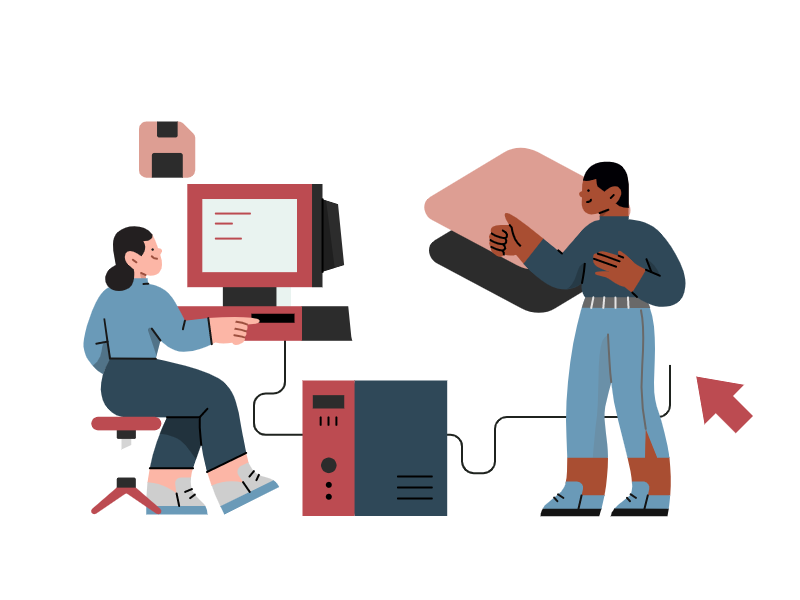
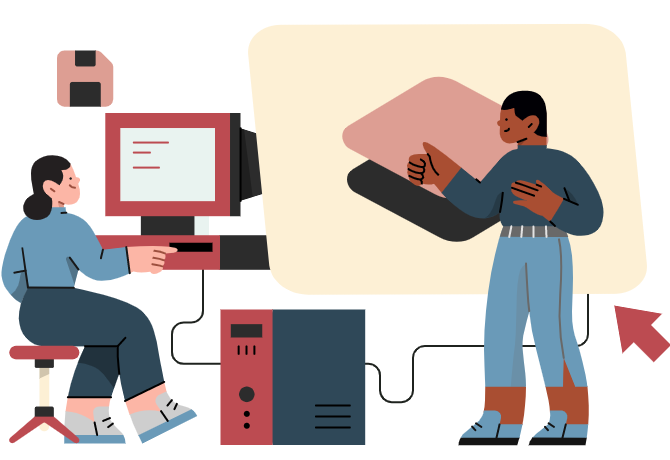
About us finished

diff --git a/src/components/footer/AboutUs.tsx b/src/components/footer/AboutUs.tsx
@@ -1,12 +1,19 @@
 const AboutUs = () => {
     return (
-        <div className="flex flex-col items-center">
-            <div className="md:w-6/12 bg-palette-80  text-palette-60 border-4 border-palette-50 rounded-2xl m-10 flex flex-col items-center">
-                <h1 className="text-center bg-palette-50 md:w-9/12 mt-10 p-6 border-4 border-palette-60 rounded-xl text-palette-60">
+        <div className="md:grid grid-cols-6 ">
+            
+            <img src="../../../images/aboutUs2.png" alt="image" className="hidden md:block md:col-start-1 md:col-end-3 md:row-start-1 mt-36 ml- z-10" />
+            <img src="../../../images/aboutUs3.png" alt="image" className=" hidden md:block md:col-start-5 md:col-end-7 md:row-start-2 z-10 md:ml-8" />
+            <img src="../../../images/aboutUs1.png" alt="image" className="hidden md:block md:col-start-1 md:col-end-3 md:row-start-3 z-10" />
+            <img src="../../../images/aboutUs4.png" alt="image" className="hidden md:block md:col-start-5 md:col-end-7 md:row-start-3 md:mt-80 z-10" />
+            <div className="col-start-2 col-span-4 row-start-1 row-end-4  bg-palette-80  text-palette-60 border-4 border-palette-50 rounded-2xl m-10 flex flex-col items-center">
+                <h1 className=" text-center bg-palette-50  mt-10 p-6 border-4 border-palette-60 rounded-xl text-palette-60">
                     Über uns und unserer Webseite
                 </h1>
-                <div className="flex flex-col items-center mt-10">
-                    <p className="bg-palette-50 md:w-9/12 p-6 border-4 border-palette-60 rounded-xl text-palette-60">
+                
+                <div className="md:grid grid-col-6">
+        
+                    <div className="col-start-2 col-end-6 m-10 bg-palette-50  p-6 border-4 border-palette-60 rounded-xl text-palette-60">
                         Wir sind ein Team von vier sehr schlauen Köpfen, die
                         sich in der Ausbildung bei DCI Digital Career Institute
                         gefunden haben und im Rahmen des „Final-Projects“ dieses
@@ -22,9 +29,9 @@ const AboutUs = () => {
                         Unterstützung konnten wir in einer lustigen Umgebung
                         gemeinsam dieses sehr nützliche Werkzeug zum lernen für
                         die DTZ-Prüfung entwickeln.
-                    </p>
+                    </div>
 
-                    <p className="bg-palette-50 md:w-9/12 mt-10 p-6 border-4 border-palette-60 rounded-xl text-palette-60">
+                    <div className="col-start-1 col-end-5 m-10 bg-palette-50  mt-10 p-6 border-4 border-palette-60 rounded-xl text-palette-60">
                         Die Idee dieser Seite ist es Zuwanderern in Deutschland
                         bei ihrem DTZ (Deutschtest für Zuwanderer) zu helfen.
                         Jeder Zuwanderer in Deutschland muss einen so genannten
@@ -47,15 +54,17 @@ const AboutUs = () => {
                         schreiben, Formulare auszufüllen, zu telefonieren und
                         sich auf Stellen zu bewerben. Die Themen sind
                         unterschiedlich, je nachdem, welche Art von Kurs Sie
-                        besuchen. Wenn die Zuwanderer z. B. einen Jugendintegrationskurs
-                        besuchen, werden Sie sich mit Themen beschäftigen, die
-                        für junge Menschen besonders interessant sind, wie z. B.
-                        die Bewerbung um einen Ausbildungsplatz. <br /><br />Den Abschluss
-                        des Sprachkurses bildet der "Deutsche Sprachtest für
-                        Zuwanderer" (DTZ). Im Anschluss an den Sprachkurs
-                        besuchen die Zuwanderer den Orientierungskurs. Er
-                        umfasst 100 Unterrichtsstunden. Hier
-                        werden behandelt man unter anderem folgende Themen 
+                        besuchen. Wenn die Zuwanderer z. B. einen
+                        Jugendintegrationskurs besuchen, werden Sie sich mit
+                        Themen beschäftigen, die für junge Menschen besonders
+                        interessant sind, wie z. B. die Bewerbung um einen
+                        Ausbildungsplatz. <br />
+                        <br />
+                        Den Abschluss des Sprachkurses bildet der "Deutsche
+                        Sprachtest für Zuwanderer" (DTZ). Im Anschluss an den
+                        Sprachkurs besuchen die Zuwanderer den
+                        Orientierungskurs. Er umfasst 100 Unterrichtsstunden.
+                        Hier werden behandelt man unter anderem folgende Themen
                         <ul className="list-disc m-6">
                             <li>das deutsche Rechtssystem,</li>
                             <li>Geschichte und Kultur,</li>
@@ -67,36 +76,86 @@ const AboutUs = () => {
                                 Gleichberechtigung.
                             </li>
                         </ul>
-                        Der Orientierungskurs wird mit dem Test "Leben
-                        in Deutschland", der auch relevant für die Einbürgerung
-                        ist, abgeschlossen. Unsere Website wird den Zuwanderern helfen, sich
-                        auf diesen Test vorzubereiten und die besten Ergebnisse
-                        zu erzielen.
-                    </p>
+                        Der Orientierungskurs wird mit dem Test "Leben in
+                        Deutschland", der auch relevant für die Einbürgerung
+                        ist, abgeschlossen. Unsere Website wird den Zuwanderern
+                        helfen, sich auf diesen Test vorzubereiten und die
+                        besten Ergebnisse zu erzielen.
+                    </div>
                 </div>
-<div className="border-4 border-palette-60 bg-palette-50 rounded-xl md:w-9/12 my-10 flex flex-col items-center">
-    <p className="mt-6">Das sind wir</p>
-                <div className="bg-palette-80 w-10/12 md:w-9/12 mt-10 p-6 border-4 border-palette-60 rounded-xl text-palette-60">
-                    <img src="" alt="" />
-                    <div className="border-b-2 border-palette-60 mb-4">Zubia Rashid</div>
-                    <div className="">HTML, CSS, SASS, Tailwind, Javascript, react JS, Node JS, Express JS, MongoDB, Typescript</div>
+                <div className="border-4 border-palette-60 bg-palette-50 rounded-xl md:w-9/12 my-10 flex flex-col items-center m-10">
+                    <p className="mt-6">Das sind wir</p> {/* zubia */}
+                    <div className="bg-palette-80 w-10/12 md:w-9/12 mZ-10 p-6 border-4 border-palette-60 rounded-xl text-palette-60 grid grid-cols-3 items-center">
+
+                       
+                        <img
+                            src="../../../public/images/imgZubi.png"
+                            alt="image"
+                            className="w-10/12"
+                        />
+                        <div className="col-span-2">
+                            {" "}
+                            <div className="border-b-2 border-palette-60 mb-4">
+                                Zubia Rashid
+                            </div>
+                            <div className="">
+                                HTML, CSS, SASS, Tailwind, Javascript, React JS,
+                                Node JS, Express JS, MongoDB, Typescript
+                            </div>
+                        </div>
+                    </div>
+                    <div className="bg-palette-80 w-10/12 md:w-9/12 mt-10 p-6 border-4 border-palette-60 rounded-xl text-palette-60 grid grid-cols-3 items-center">
+                        <img
+                            src="../../../public/images/"
+                            alt="image"
+                            className="w-10/12"
+                        />
+                        <div className="col-span-2">
+                            {" "}
+                            <div className="border-b-2 border-palette-60 mb-4">
+                 Sali Taymour
+                            </div>
+                            <div className="">
+                                HTML, CSS, Javascript, React JS,
+                                Node JS, 
+                            </div>
+                        </div>
+                    </div>
+                    <div className="bg-palette-80 w-10/12 md:w-9/12 mt-10 p-6 border-4 border-palette-60 rounded-xl text-palette-60 grid grid-cols-3 items-center">
+                        <img
+                            src="../../../public/images/"
+                            alt="image"
+                            className="w-10/12"
+                        />
+                        <div className="col-span-2">
+                            {" "}
+                            <div className="border-b-2 border-palette-60 mb-4">
+                                Mezekir Abraham Ghebreyesus
+                            </div>
+                            <div className="">
+                                HTML, CSS, SASS, Tailwind, Javascript, React JS,
+                                Node JS, Express JS, MongoDB, Typescript
+                            </div>
+                        </div>
+                    </div>
+                    <div className="bg-palette-80 w-10/12 md:w-9/12 my-10 p-6 border-4 border-palette-60 rounded-xl text-palette-60 grid grid-cols-3 items-center">
+                        <img
+                            src="../../../public/images/"
+                            alt="image"
+                            className="w-10/12"
+                        />
+                        <div className="col-span-2">
+                            {" "}
+                            <div className="border-b-2 border-palette-60 mb-4">
+                                Omar Rajla Tabaa
+                            </div>
+                            <div className="">
+                                HTML, CSS, SASS, Tailwind, Javascript, react JS,
+                                Node JS, Express JS, MongoDB, Typescript
+                            </div>
+                        </div>
+                    </div>
                 </div>
-                <div className="bg-palette-80 w-10/12 md:w-9/12 mt-10 p-6 border-4 border-palette-60 rounded-xl text-palette-60">
-                <img src="" alt="" />
-                    <div className="border-b-2 border-palette-60 mb-4">Sali Taymurkhan</div>
-                    <div className="">HTML, CSS, SASS, Tailwind, Javascript, react JS, Node JS, Express JS, MongoDB, Typescript</div>
-                </div>
-                <div className="bg-palette-80 w-10/12 md:w-9/12 mt-10 p-6 border-4 border-palette-60 rounded-xl text-palette-60">
-                <img src="" alt="" />
-                    <div className="border-b-2 border-palette-60 mb-4">Mezekir Abraham Ghebreyesus</div>
-                    <div className="">HTML, CSS, SASS, Tailwind, Javascript, react JS, Node JS, Express JS, MongoDB, Typescript</div>
-                </div>
-                <div className="bg-palette-80 w-10/12 md:w-9/12 mt-10 p-6 border-4 border-palette-60 rounded-xl text-palette-60 mb-10">
-                <img src="" alt="" />
-                    <div className="border-b-2 border-palette-60 mb-4">Omar Tabaa Rajla</div>
-                    <div className="">HTML, CSS, SASS, Tailwind, Javascript, react JS, Node JS, Express JS, MongoDB, Typescript</div>
-                </div>
-            </div>
             </div>
         </div>
     );

diff --git a/src/components/footer/Footer.jsx b/src/components/footer/Footer.jsx
@@ -11,7 +11,7 @@ const Footer = () => {
     // footer
     return (
         // footer
-        <div className="w-full flex text-center bg-palette-50 text-palette-60 fixed bottom-0">
+        <div className="w-full flex text-center bg-palette-50 text-palette-60 fixed bottom-0 z-20">
             <div className="w-3/12">
                 <NavLink className="" to="/" element={<Homepage />}>
                     <img
